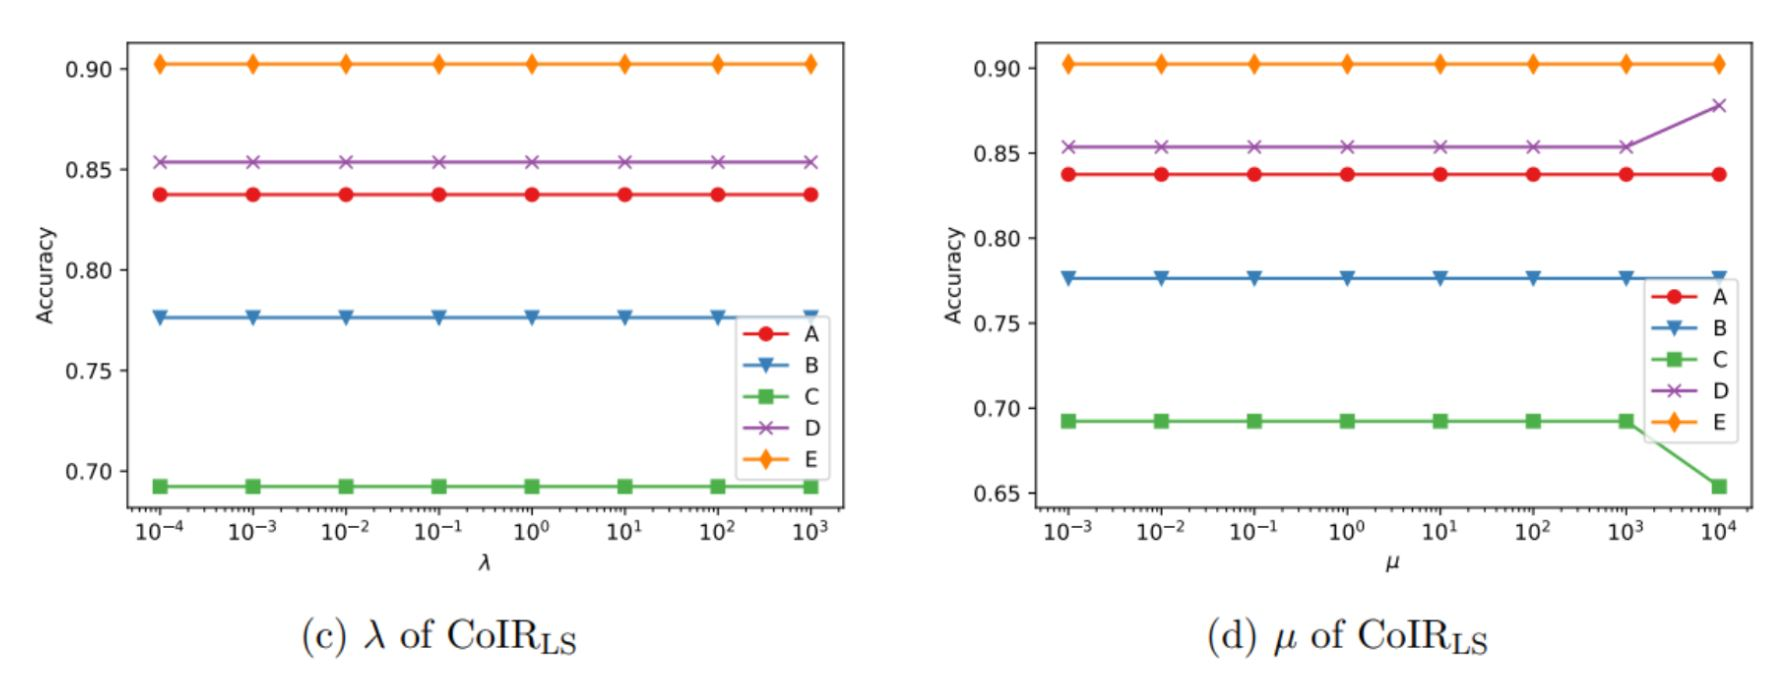
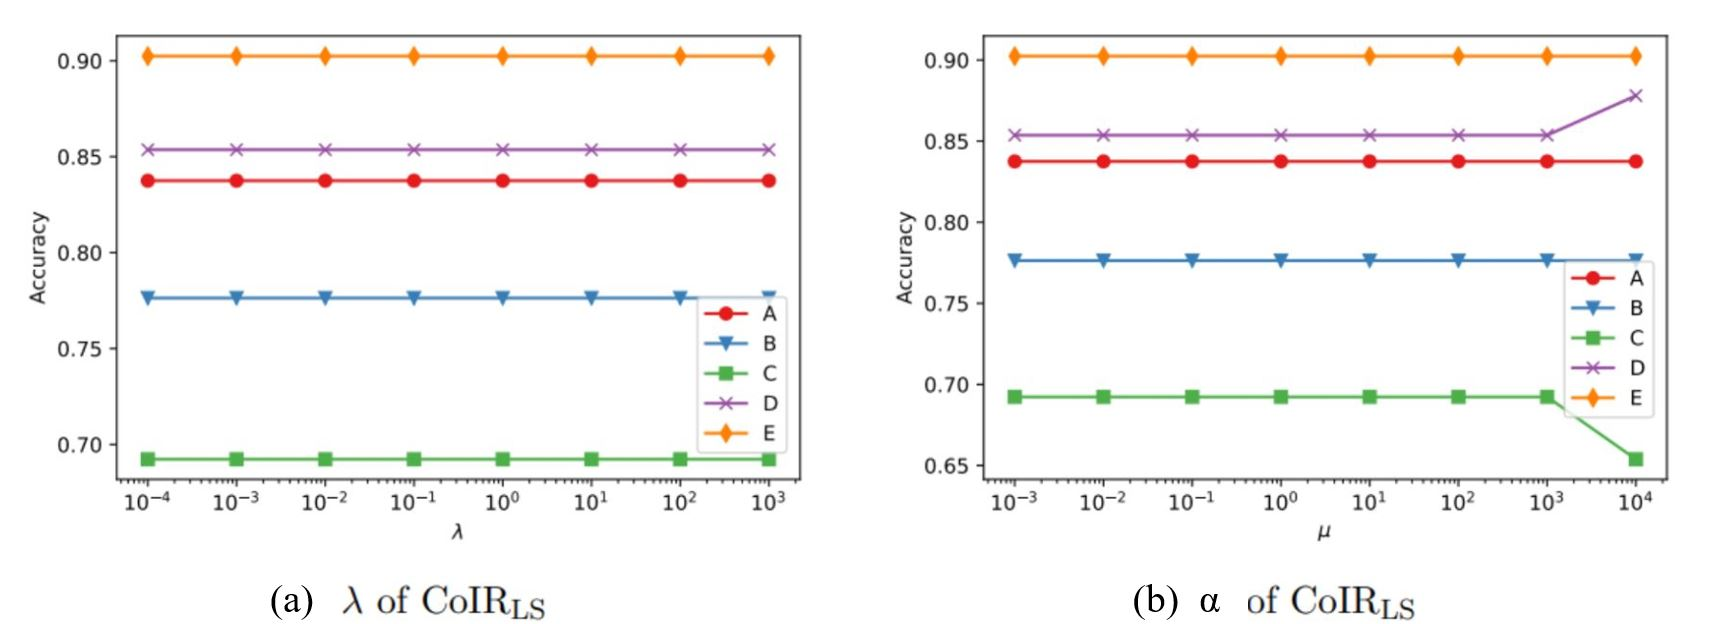
hyper parameter figures and note

diff --git a/_build/html/searchindex.js b/_build/html/searchindex.js
@@ -1,1 +1,1 @@
-Search.setIndex({docnames:["01-da_info/coir_info","01-da_info/coir_ls","01-da_info/limit","01-da_info/tl_dl","01-da_info/traditional_ML","01-da_info/what","01-da_info/when","index"],envversion:{"sphinx.domains.c":2,"sphinx.domains.changeset":1,"sphinx.domains.citation":1,"sphinx.domains.cpp":5,"sphinx.domains.index":1,"sphinx.domains.javascript":2,"sphinx.domains.math":2,"sphinx.domains.python":3,"sphinx.domains.rst":2,"sphinx.domains.std":2,"sphinx.ext.intersphinx":1,"sphinxcontrib.bibtex":9,sphinx:56},filenames:["01-da_info/coir_info.md","01-da_info/coir_ls.md","01-da_info/limit.md","01-da_info/tl_dl.md","01-da_info/traditional_ML.md","01-da_info/what.md","01-da_info/when.md","index.md"],objects:{},objnames:{},objtypes:{},terms:{"0":[],"000":1,"001":2,"002":2,"0s":1,"1":[0,2,3,4],"10":1,"100":[],"19680801":[],"2":3,"2006":4,"2007":4,"2008":4,"2010":3,"2013":4,"2014":4,"2015":4,"2016":4,"2017":[],"2018":4,"2021":3,"3":1,"3a":3,"3b":[],"4":1,"5":[],"\u03bc1":1,"\u03bc2":1,"case":7,"class":4,"default":[4,7],"do":7,"final":4,"function":[1,2,3,4,7],"import":[1,2,4],"new":3,"null":4,"return":1,"while":[2,7],A:[2,3,4,6],As:[],But:[],For:[4,6,7],If:[],In:[5,7],Is:4,It:[],No:4,That:[],The:[0,1,2,3,4,7],There:3,To:[0,7],With:[],abandon:2,abil:4,about:[],accept:[],account:5,accur:7,accuraci:[1,4],achiev:7,acquir:0,across:[2,7],action:4,activ:[0,2,4,5,7],adapt:0,add_:[],addition:[0,2],address:[3,6],after:2,again:7,aggreg:7,aim:7,al:[3,4],alcohol:4,algorithm:[0,1,4],align:7,all:[0,2,3,4,7],allow:[2,3,4,5],alreadi:7,also:[1,2],alter:[4,6],altern:4,alzubi:4,an:[2,4,6,7],analys:[2,4,7],analysi:[2,3,4],analyz:2,anatom:7,ani:[],anim:4,anomali:[],answer:4,appli:7,approach:6,appropri:4,ar:[0,2,3,4,6,7],area:0,arrai:[],artifici:4,ask:4,assess:[2,6],associ:[4,7],assum:7,attempt:[4,7],auditori:[],australia:[],awar:2,ax:[],b:[3,4],base:[1,2,3,4],bayesian:4,becaus:2,been:4,befor:[6,7],begin:7,begun:7,behavior:[4,7],being:4,below:2,benefici:5,benefit:0,between:[3,6,7],bib:[],bibliographi:[],bibtex:[],binari:4,block:[],blue:3,bono:4,book:[],borrow:7,both:[0,2,3],bound:0,boundari:2,box:3,brain:[0,1,2,5,7],brian:[],brisban:[],brute:6,build:[],built:[],bundl:[],c:1,call:[0,7],can:[0,1,2,3,4,5,6,7],categori:4,cell:[],center:1,chair:7,challeng:[5,7],chang:[1,4],check:[],chosen:4,christoph:[],cite:0,classif:[0,1,2,7],classifi:[0,1,3],cluster:[],cm:[],cmap:[],code:[],coeffici:0,cognit:[4,5],coir:[],coirl:[0,1],cold:[],collect:7,color:[],combat:7,combin:[0,5,7],command:[],common:[4,7],commonli:[2,4],commonmark:[],complet:1,complex:[0,7],compon:[3,4],comput:[1,4,5,7],concaten:7,concentr:2,concept:7,conclus:2,condit:[0,4,7],confer:[],consid:[0,2,5],consider:2,construct:1,content:[],contigu:7,continu:4,contribut:[2,3,4,7],control:[1,4],convert:[],coolwarm:[],coordin:7,correct:4,correl:2,correspond:[1,2],cortex:7,cortico:4,could:7,covari:[0,1,5],creat:4,cross:1,current:5,custom_lin:[],cycler:[],d:1,da:[3,6],data:[0,1,2,3,4,7],dataset:[0,3,4,5,7],de:[],decis:[],decod:[1,7],deep:7,defin:[2,4],denot:1,depend:0,depth:[],deriv:3,describ:7,design:0,detail:[],detect:[],determin:[4,6],develop:7,di:4,differ:[3,5,6],differenti:7,difficult:2,dimens:2,dimension:0,direct:[],discrimin:4,displai:[],diss:0,distinct:7,distribut:[0,3,7],divers:3,document:[],doe:[],dollar:[],domain:[0,1,4],done:[4,7],drawn:2,due:4,dure:[2,4],e:[0,1,2,3,4,6],each:[4,5,6,7],ecosystem:[],effect:7,either:3,element:7,elicit:5,emb:[],empir:0,enabl:4,encod:[0,1],end:[],environ:4,equival:3,error:[0,4],escap:[],et:[3,4],etc:[4,6],even:7,everi:2,evid:[],exampl:[4,7],execut:[],exist:6,experi:[0,4,5,7],experienc:4,explain:7,explicit:6,explicitli:4,express:7,extens:[],extract:5,fear:[2,4],featur:[0,1,2,3,4,5,6,7],feel:[],few:[],fig:[1,3,4],figsiz:[],figur:[],file:[],fit:[4,7],five:[1,4],fix:4,flavor:[],fmri:[2,4,7],focu:3,focus:4,follow:[2,4,7],forc:6,form:7,forward:2,found:1,framework:[0,1,5],from:[0,1,2,3,4,7],frontal:7,frontier:[],further:[0,4],furthermor:7,g:[4,6],gain:3,game:4,gener:[0,3,4],get:[],give:[],given:[2,4,7],go:[],goal:7,greater:1,green:3,gui:[],guid:[3,4,5],ha:[2,3,4,7],hand:[0,4],handl:4,haruno:4,have:[0,4,7],hdhpk14:[],healthi:4,heard:4,heer:[],help:[],here:[],holdgraf:[],holdgraf_evidence_2014:[],hot:[0,1],how:[4,7],howev:[5,7],html:[],human:[3,4,7],hurt:6,hypothesi:[0,4],i:[0,1,2,3,4,7],ica:4,ideal:7,ident:[1,2,3,4],identifi:[0,2,7],ii:[],imag:[],imagin:4,impact:[2,4],impli:3,implicit:6,improv:[3,4,7],includ:[1,4,7],increas:7,independ:[1,4,5],indic:1,individu:[2,7],induct:3,influenc:[3,4],inform:3,init:[],initi:7,inlin:[],input:[0,3],insert:[],instruct:[],insula:2,intellig:4,intention:3,interact:[],interest:2,intern:[],interpret:0,introduc:7,invari:0,investig:[],involv:[4,7],ion:[],ipynb:[],iter:4,itself:4,jupyt:[],jupyterbook:[],jupytext:[],just:[],kawato:4,keep:[],kei:7,kernel:1,kind:[],knight:[],knowledg:[3,4],known:7,la_:[],label:[0,1,2,7],languag:5,larg:[4,7],larger:[1,3],last:[],lead:1,learn:[0,1,5,6],least:0,leav:1,legend:[],lend:[],let:[],leverag:3,liang:4,like:[],limit:3,line2d:[],line:[],linear:1,link:2,linspac:[],literatur:7,littl:[],ll:[],lobe:7,local:[2,7],locat:6,logspac:[],loop:4,lot:[],lw:[],machin:[],magic:7,magnet:4,magnitud:0,mai:[2,6,7],major:4,make:4,mani:[4,7],map:[0,1,7],margin:3,markdown:[],markdownfil:[],markedli:[],markup:[],math:4,matplotlib:[],matrix:[0,1],mbox:[],md:[],mean:[1,2],mechan:4,medium:[],memori:7,method:[0,6],methodolog:6,minim:0,misus:4,ml:[3,4],mni:2,modal:[4,7],mode:[4,7],model:[0,1,3,4,5,7],modifi:4,modul:[],modulenotfounderror:[],more:[0,3,4,5,7],moreov:[],most:4,much:4,multi:[1,4],multipl:[4,7],multivari:7,must:[0,2,4,6],mvpa:4,myst:[],n:[],name:[],natur:5,need:[2,6],neg:[0,6],network:[4,7],neural:[4,7],neurocognit:7,neuropsycholog:4,neurosci:4,neuroscientist:[4,7],next:4,nois:[],note:[],notebook:[],np:[],number:[4,7],numer:4,numpi:[],object:0,occur:[0,2,3],odd:4,off:1,often:4,one:[0,1,2,3,4],onli:[3,4,6],openneuro:1,optim:[0,1],order:5,org:[],organ:4,orient:2,origin:[2,4],other:[2,6,7],out:[1,2,4],outlier:4,output:[0,4],over:4,overcom:7,overview:7,page:[],pan:3,pariet:7,part:3,particip:[2,5],particular:5,particularli:4,paslei:[],patch:7,path:[],pattern:[4,5,7],pca:4,penalti:4,percept:4,perform:[1,6],perspect:7,pfordresh:3,plot:[],plt:[],point:[],posit:0,post:[],potenti:7,power:[],precursor:4,predict:[0,3,4],presenc:[],present:[4,5],principl:4,print:[],prior:4,priori:4,probabl:[1,3],problem:[4,7],process:[1,3,4,5,7],produc:4,profil:[4,7],program:4,project:0,promis:7,prop_cycl:[],properli:[],prove:7,provid:3,purpos:4,pyplot:[],question:6,ramsai:[],randn:[],random:[],rang:7,rare:7,rate:4,rather:3,rational:2,rcparam:[],recent:[],reduc:[0,4],refer:[],referenti:7,regardless:7,region:[2,7],regress:[2,7],regular:[0,1,5,7],reinforc:[],relat:[3,4,6,7],relationship:[3,6,7],relev:[2,7],reli:7,remain:2,render:[],repres:3,represent:7,reproduc:[],requir:[1,4,7],research:4,reson:4,respect:[1,7],respons:7,rest:[],result:[2,3,4,6],retain:2,reward:4,risk:0,robert:[],robust:5,run:4,s:[1,2,4,7],same:[0,2,3,4,5,6,7],sampl:[0,3],scan:2,scanner:7,scienc:4,score:[],seafar:4,see:[1,3],seed:[],self:7,sensit:1,seriou:7,serv:[],set:[2,3,7],share:[3,7],shi:4,shoe:7,should:[2,4,6,7],show:[],sign:[],similar:[2,4,6,7],similarli:[2,3],simpl:[],simplest:7,simultan:0,singl:[4,7],site:7,situat:[3,6],skill:6,slight:[],small:[],smolder:4,so:[0,7],solv:4,some:[2,3,4,7],sourc:[0,1,2,6,7],space:[0,2,3,6,7],span:[],spatial:2,special:[],specif:[5,6,7],specifi:3,sphinx:[],squar:0,stabil:1,stand:[],standard:[2,7],start:[],starter:[],state:[],statist:4,step:[1,2],stimuli:[6,7],stimulu:[4,7],store:[],strategi:7,striatal:4,structur:[4,7],studi:[2,3,4,6,7],subject:[0,2,4,5,7],subplot:[],subset:[2,4],subtyp:3,supekar:4,support:7,sure:[],syntax:[],t:[],tabl:3,tandem:7,tap:7,target:[0,1,2,6,7],task:[0,1,3,4,5],techniqu:7,templat:7,tempor:7,term:3,test:4,tex:[],text:[],than:[1,3,7],thei:7,therefor:[0,2,3],thi:[1,2,3,4,5,7],thing:[],think:7,those:[],though:[1,4],thoughtfulli:2,three:[0,3],through:4,thu:7,time:4,tl:[3,4,6],took:7,tool:4,top:0,topic:[],traceback:[],trade:1,tradit:[3,4,5],train:[1,2,3,4,7],transduct:3,transfer:[4,6],treat:5,trial:[4,7],turn:0,tutor:4,two:[3,6],type:6,typic:[2,7],unabl:2,understand:[],unintention:3,uniqu:[0,2,5],unit:7,univari:7,unlabel:[0,1,3],unlik:2,unsuccess:6,unsupervis:3,up:2,upper:0,us:[0,1,2,3,4,5],valid:1,valu:1,varianc:7,variat:[],variou:4,vector:[1,3,7],ventral:7,veri:[4,7],via:4,video:4,view:[0,4],vision:5,visual:0,voxel:[2,4,7],wai:7,want:[],we:7,weight:[0,2],well:5,wendi:[],what:[4,7],whelan:4,when:[3,7],where:[0,7],wherea:[],whether:[],which:[0,2,3,4,5,6,7],white:3,whole:2,why:7,wide:[4,5,7],within:[2,7],without:4,work:7,wors:6,would:7,write:[],written:[],yang:3,ye:4,you:[],your:[],zorzi:4},titles:["About CoIR","CoIR<sub>LS</sub>","Domain Adaptation Limitation","Transfer Learning and Domain Adaptation","Machine Learning","What to Domain Adaptation","When to use Domain Adaptation","Cognitive Neuroscience"],titleterms:{about:0,adapt:[2,3,5,6,7],add:[],an:[],anomali:4,block:[],book:[],cell:[],citat:[],classif:4,cluster:4,code:[],cognit:7,coir:[0,1,5],coirl:[],content:[],creat:[],detect:4,direct:[],domain:[2,3,5,6,7],exampl:[],file:[],hyper:1,input:1,jupyt:[],learn:[3,4,7],limit:2,ls:1,machin:[4,7],markdown:[],metadata:[],more:[],myst:[],neurosci:7,notebook:[],output:[],paramet:1,question:4,quickli:[],regress:4,reinforc:4,role:[],sampl:[],sourc:3,sub:1,target:3,transfer:3,type:3,us:[6,7],welcom:[],what:5,when:6,yaml:[],your:[]}})
+Search.setIndex({docnames:["01-da_info/coir_info","01-da_info/coir_ls","01-da_info/limit","01-da_info/tl_dl","01-da_info/traditional_ML","01-da_info/what","01-da_info/when","index"],envversion:{"sphinx.domains.c":2,"sphinx.domains.changeset":1,"sphinx.domains.citation":1,"sphinx.domains.cpp":5,"sphinx.domains.index":1,"sphinx.domains.javascript":2,"sphinx.domains.math":2,"sphinx.domains.python":3,"sphinx.domains.rst":2,"sphinx.domains.std":2,"sphinx.ext.intersphinx":1,"sphinxcontrib.bibtex":9,sphinx:56},filenames:["01-da_info/coir_info.md","01-da_info/coir_ls.md","01-da_info/limit.md","01-da_info/tl_dl.md","01-da_info/traditional_ML.md","01-da_info/what.md","01-da_info/when.md","index.md"],objects:{},objnames:{},objtypes:{},terms:{"0":[],"000":1,"001":2,"002":2,"0s":1,"1":[0,2,3,4],"10":1,"100":[],"19680801":[],"2":3,"2006":4,"2007":4,"2008":4,"2010":3,"2013":4,"2014":4,"2015":4,"2016":4,"2017":[],"2018":4,"2021":3,"3":1,"3a":[1,3],"3b":1,"4":1,"5":[],"\u03bc1":[],"\u03bc2":[],"case":7,"class":4,"default":[4,7],"do":7,"final":4,"function":[2,3,4,7],"import":[1,2,4],"new":3,"null":4,"return":1,"while":[2,7],A:[2,3,4,6],As:[],But:[],For:[4,6,7],If:[],In:[5,7],Is:4,It:[],No:4,That:[],The:[0,1,2,3,4,7],There:3,To:[0,7],With:[],abandon:2,abil:4,about:[],accept:[],account:5,accur:7,accuraci:[1,4],achiev:7,acquir:0,across:[2,7],action:4,activ:[0,2,4,5,7],adapt:0,add_:[],addition:[0,2],address:[3,6],after:2,again:7,aggreg:7,aim:7,al:[3,4],alcohol:4,algorithm:[0,1,4],align:7,all:[0,2,3,4,7],allow:[2,3,4,5],alpha:1,alreadi:7,also:[1,2],alter:[4,6],altern:4,alzubi:4,an:[2,4,6,7],analys:[2,4,7],analysi:[2,3,4],analyz:2,anatom:7,ani:[],anim:4,anomali:[],answer:4,appli:7,approach:6,appropri:4,ar:[0,2,3,4,6,7],area:0,arrai:[],artifici:4,ask:4,assess:[2,6],associ:[4,7],assum:7,attempt:[4,7],auditori:[],australia:[],awar:2,ax:[],b:[3,4],base:[1,2,3,4],bayesian:4,becaus:2,been:4,befor:[6,7],begin:7,begun:7,behavior:[4,7],being:4,below:2,benefici:5,benefit:0,between:[3,6,7],bib:[],bibliographi:[],bibtex:[],binari:4,block:[],blue:3,bono:4,book:[],borrow:7,both:[0,2,3],bound:0,boundari:2,box:3,brain:[0,1,2,5,7],brian:[],brisban:[],brute:6,build:[],built:[],bundl:[],c:[],call:[0,7],can:[0,1,2,3,4,5,6,7],categori:4,cell:[],center:1,chair:7,challeng:[5,7],chang:[1,4],check:[],chosen:4,christoph:[],cite:0,classif:[0,1,2,7],classifi:[0,1,3],cluster:[],cm:[],cmap:[],code:[],coeffici:0,cognit:[4,5],coir:[],coirl:[0,1],cold:[],collect:7,color:[],combat:7,combin:[0,5,7],command:[],common:[4,7],commonli:[2,4],commonmark:[],complet:1,complex:[0,7],compon:[3,4],comput:[1,4,5,7],concaten:7,concentr:2,concept:7,conclus:2,condit:[0,4,7],confer:[],consid:[0,2,5],consider:2,construct:1,content:[],contigu:7,continu:4,contribut:[2,3,4,7],control:[1,4],convert:[],coolwarm:[],coordin:7,correct:4,correl:2,correspond:2,cortex:7,cortico:4,could:7,covari:[0,1,5],creat:4,cross:1,current:5,custom_lin:[],cycler:[],d:[],da:[3,6],data:[0,1,2,3,4,7],dataset:[0,3,4,5,7],de:[],decis:[],decod:[1,7],deep:7,defin:[2,4],denot:1,depend:0,depth:[],deriv:3,describ:7,design:0,detail:[],detect:[],determin:[4,6],develop:7,di:4,differ:[3,5,6],differenti:7,difficult:2,dimens:2,dimension:0,direct:[],discrimin:4,displai:[],diss:0,distinct:7,distribut:[0,3,7],divers:3,document:[],doe:[],dollar:[],domain:[0,1,4],done:[4,7],drawn:2,due:4,dure:[2,4],e:[0,1,2,3,4,6],each:[4,5,6,7],ecosystem:[],effect:7,either:3,element:7,elicit:5,emb:[],empir:0,enabl:4,encod:[0,1],end:[],environ:4,equival:3,error:[0,4],escap:[],et:[3,4],etc:[4,6],even:7,everi:2,evid:[],exampl:[4,7],execut:[],exist:6,experi:[0,4,5,7],experienc:4,explain:7,explicit:6,explicitli:4,express:7,extens:[],extract:5,fear:[2,4],featur:[0,1,2,3,4,5,6,7],feel:[],few:[],fig:[1,3,4],figsiz:[],figur:[],file:[],fit:[4,7],five:[1,4],fix:4,flavor:[],fmri:[2,4,7],focu:3,focus:4,follow:[2,4,7],forc:6,form:7,forward:2,found:1,framework:[0,1,5],from:[0,1,2,3,4,7],frontal:7,frontier:[],further:[0,4],furthermor:7,g:[4,6],gain:3,game:4,gener:[0,3,4],get:[],give:[],given:[2,4,7],go:[],goal:7,greater:1,green:3,gui:[],guid:[3,4,5],ha:[2,3,4,7],hand:[0,4],handl:4,haruno:4,have:[0,4,7],hdhpk14:[],healthi:4,heard:4,heer:[],help:[],here:[],holdgraf:[],holdgraf_evidence_2014:[],hot:[0,1],how:[4,7],howev:[5,7],html:[],human:[3,4,7],hurt:6,hypothesi:[0,4],i:[0,1,2,3,4,7],ica:4,ideal:7,ident:[1,2,3,4],identifi:[0,2,7],ii:[],imag:[],imagin:4,impact:[2,4],impli:3,implicit:6,improv:[3,4,7],includ:[1,4,7],increas:7,independ:[1,4,5],indic:1,individu:[2,7],induct:3,influenc:[3,4],inform:3,init:[],initi:7,inlin:[],input:[0,3],insert:[],instruct:[],insula:2,intellig:4,intention:3,interact:[],interest:2,intern:[],interpret:0,introduc:7,invari:0,investig:[],involv:[4,7],ion:[],ipynb:[],iter:4,itself:4,jupyt:[],jupyterbook:[],jupytext:[],just:[],kawato:4,keep:[],kei:7,kernel:1,kind:[],knight:[],knowledg:[3,4],known:7,la_:[],label:[0,1,2,7],lambda:1,languag:5,larg:[4,7],larger:[1,3],last:[],lead:1,learn:[0,1,5,6],least:0,leav:1,legend:[],lend:[],let:[],leverag:3,liang:4,like:[],limit:3,line2d:[],line:[],linear:1,link:2,linspac:[],literatur:7,littl:[],ll:[],lobe:7,local:[2,7],locat:6,logspac:[],loop:4,lot:[],lw:[],machin:[],magic:7,magnet:4,magnitud:0,mai:[2,6,7],major:4,make:4,mani:[4,7],map:[0,1,7],margin:3,markdown:[],markdownfil:[],markedli:[],markup:[],math:4,matplotlib:[],matrix:[0,1],mbox:[],md:[],mean:2,mechan:4,medium:[],memori:7,method:[0,6],methodolog:6,minim:0,misus:4,ml:[3,4],mni:2,modal:[4,7],mode:[4,7],model:[0,1,3,4,5,7],modifi:4,modul:[],modulenotfounderror:[],more:[0,3,4,5,7],moreov:[],most:4,much:4,multi:[1,4],multipl:[4,7],multivari:7,must:[0,2,4,6],mvpa:4,myst:[],n:[],name:[],natur:5,need:[2,6],neg:[0,6],network:[4,7],neural:[4,7],neurocognit:7,neuropsycholog:4,neurosci:4,neuroscientist:[4,7],next:4,nois:[],note:[],notebook:[],np:[],number:[4,7],numer:4,numpi:[],object:0,occur:[0,2,3],odd:4,off:1,often:4,one:[0,1,2,3,4],onli:[3,4,6],openneuro:1,optim:[0,1],order:5,org:[],organ:4,orient:2,origin:[2,4],other:[2,6,7],out:[1,2,4],outlier:4,output:[0,4],over:4,overcom:7,overview:7,page:[],pan:3,pariet:7,part:3,particip:[2,5],particular:5,particularli:4,paslei:[],patch:7,path:[],pattern:[4,5,7],pca:4,penalti:4,percept:4,perform:[1,6],perspect:7,pfordresh:3,plot:[],plt:[],point:[],posit:0,post:[],potenti:7,power:[],precursor:4,predict:[0,3,4],presenc:[],present:[4,5],principl:4,print:[],prior:4,priori:4,probabl:[1,3],problem:[4,7],process:[1,3,4,5,7],produc:4,profil:[4,7],program:4,project:0,promis:7,prop_cycl:[],properli:[],prove:7,provid:3,purpos:4,pyplot:[],question:6,ramsai:[],randn:[],random:[],rang:7,rare:7,rate:4,rather:3,rational:2,rcparam:[],recent:[],reduc:[0,4],refer:[],referenti:7,regardless:7,region:[2,7],regress:[2,7],regular:[0,1,5,7],reinforc:[],relat:[3,4,6,7],relationship:[3,6,7],relev:[2,7],reli:7,remain:2,render:[],repres:3,represent:7,reproduc:[],requir:[1,4,7],research:4,reson:4,respect:[1,7],respons:7,rest:[],result:[2,3,4,6],retain:2,reward:4,risk:0,robert:[],robust:5,run:4,s:[1,2,4,7],same:[0,2,3,4,5,6,7],sampl:[0,3],scan:2,scanner:7,scienc:4,score:[],seafar:4,see:[1,3],seed:[],self:7,sensit:1,seriou:7,serv:[],set:[2,3,7],share:[3,7],shi:4,shoe:7,should:[2,4,6,7],show:[],sign:[],similar:[2,4,6,7],similarli:[2,3],simpl:[],simplest:7,simultan:0,singl:[4,7],site:7,situat:[3,6],skill:6,slight:[],small:[],smolder:4,so:[0,7],solv:4,some:[2,3,4,7],sourc:[0,1,2,6,7],space:[0,2,3,6,7],span:[],spatial:2,special:[],specif:[5,6,7],specifi:3,sphinx:[],squar:0,stabil:1,stand:[],standard:[2,7],start:[],starter:[],state:[],statist:4,step:[1,2],stimuli:[6,7],stimulu:[4,7],store:[],strategi:7,striatal:4,structur:[4,7],studi:[2,3,4,6,7],subject:[0,2,4,5,7],subplot:[],subset:[2,4],subtyp:3,supekar:4,support:7,sure:[],syntax:[],t:[],tabl:3,tandem:7,tap:7,target:[0,1,2,6,7],task:[0,1,3,4,5],techniqu:7,templat:7,tempor:7,term:3,test:4,tex:[],text:[],than:[1,3,7],thei:7,therefor:[0,2,3],thi:[1,2,3,4,5,7],thing:[],think:7,those:[],though:[1,4],thoughtfulli:2,three:[0,3],through:4,thu:7,time:4,tl:[3,4,6],took:7,tool:4,top:0,topic:[],traceback:[],trade:1,tradit:[3,4,5],train:[1,2,3,4,7],transduct:3,transfer:[4,6],treat:5,trial:[4,7],turn:0,tutor:4,two:[3,6],type:6,typic:[2,7],unabl:2,understand:[],unintention:3,uniqu:[0,2,5],unit:7,univari:7,unlabel:[0,1,3],unlik:2,unsuccess:6,unsupervis:3,up:2,upper:0,us:[0,1,2,3,4,5],valid:1,valu:1,varianc:7,variat:[],variou:4,vector:[1,3,7],ventral:7,veri:[4,7],via:4,video:4,view:[0,4],vision:5,visual:0,voxel:[2,4,7],wai:7,want:[],we:7,weight:[0,2],well:5,wendi:[],what:[4,7],whelan:4,when:[3,7],where:[0,7],wherea:[],whether:[],which:[0,2,3,4,5,6,7],white:3,whole:2,why:7,wide:[4,5,7],within:[2,7],without:4,work:7,wors:6,would:7,write:[],written:[],yang:3,ye:4,you:[],your:[],zorzi:4},titles:["About CoIR","CoIR<sub>LS</sub>","Domain Adaptation Limitation","Transfer Learning and Domain Adaptation","Machine Learning","What to Domain Adaptation","When to use Domain Adaptation","Cognitive Neuroscience"],titleterms:{about:0,adapt:[2,3,5,6,7],add:[],an:[],anomali:4,block:[],book:[],cell:[],citat:[],classif:4,cluster:4,code:[],cognit:7,coir:[0,1,5],coirl:[],content:[],creat:[],detect:4,direct:[],domain:[2,3,5,6,7],exampl:[],file:[],hyper:1,input:1,jupyt:[],learn:[3,4,7],limit:2,ls:1,machin:[4,7],markdown:[],metadata:[],more:[],myst:[],neurosci:7,notebook:[],output:[],paramet:1,question:4,quickli:[],regress:4,reinforc:4,role:[],sampl:[],sourc:3,sub:1,target:3,transfer:3,type:3,us:[6,7],welcom:[],what:5,when:6,yaml:[],your:[]}})

diff --git a/_build/html/01-da_info/coir_ls.html b/_build/html/01-da_info/coir_ls.html
@@ -50,6 +50,8 @@ const thebe_selector_input = "pre"
 const thebe_selector_output = ".output, .cell_output"
 </script>
     <script async="async" src="../_static/sphinx-thebe.js"></script>
+    <script>window.MathJax = {"options": {"processHtmlClass": "tex2jax_process|mathjax_process|math|output_area"}}</script>
+    <script defer="defer" src="https://cdn.jsdelivr.net/npm/mathjax@3/es5/tex-mml-chtml.js"></script>
     <link rel="index" title="Index" href="../genindex.html" />
     <link rel="search" title="Search" href="../search.html" />
     <link rel="prev" title="About CoIR" href="coir_info.html" />
@@ -403,11 +405,11 @@ title="Print to PDF"
 <h2>Hyper-Parameters<a class="headerlink" href="#hyper-parameters" title="Permalink to this headline">#</a></h2>
 <p>Hyper-parameters (i.e., values that control the model’s learning process) include:</p>
 <ul class="simple">
-<li><p>mean (i.e., μ1 and μ2)</p></li>
-<li><p>kernel function and corresponding hyper-parameters.</p></li>
+<li><p>lambda  (<span class="math notranslate nohighlight">\(\lambda\)</span>)</p></li>
+<li><p>alpha (<span class="math notranslate nohighlight">\(\alpha\)</span>)</p></li>
 </ul>
 <p>Optimal hyper-parameters can be found using leave-one-domain-out cross validation on source domain data.</p>
-<p>The algorithm is not sensitive to the trade-off parameter, indicating the covariate-independence regularization importance stability (see Fig. 4 c). This algorithm is also not sensitive to the mean, though larger values greater than 10,000 can lead to a change in performance (see Fig. 4 d).</p>
+<p>The algorithm is not sensitive to the trade-off parameter, indicating the covariate-independence regularization importance stability (see Fig. 3a). This algorithm is also not sensitive to alpha, though larger values greater than 10,000 can lead to a change in performance (see Fig. 3b).</p>
 <p><img alt="Hyperparameters" src="../_images/CoIRsens.JPG" /></p>
 <p><b>Fig. 3 - Sensitivity of classification accuracy with respect to hyper-parameters of CoIRLS on five multi-source brain decoding tasks from OpenNeuro </b></p>
 </section>

diff --git a/01-da_info/coir_ls.md b/01-da_info/coir_ls.md
@@ -14,12 +14,12 @@ Inputs required include:
 
 ## Hyper-Parameters
 Hyper-parameters (i.e., values that control the model’s learning process) include: 
-- mean (i.e., μ1 and μ2)
-- kernel function and corresponding hyper-parameters. 
+- lambda  ($\lambda$)
+- alpha ($\alpha$)
 
 Optimal hyper-parameters can be found using leave-one-domain-out cross validation on source domain data. 
 
-The algorithm is not sensitive to the trade-off parameter, indicating the covariate-independence regularization importance stability (see Fig. 4 c). This algorithm is also not sensitive to the mean, though larger values greater than 10,000 can lead to a change in performance (see Fig. 4 d). 
+The algorithm is not sensitive to the trade-off parameter, indicating the covariate-independence regularization importance stability (see Fig. 3a). This algorithm is also not sensitive to alpha, though larger values greater than 10,000 can lead to a change in performance (see Fig. 3b). 
 
 ![Hyperparameters](images/CoIRsens.JPG)
 

diff --git a/_build/html/_sources/01-da_info/coir_ls.md b/_build/html/_sources/01-da_info/coir_ls.md
@@ -14,12 +14,12 @@ Inputs required include:
 
 ## Hyper-Parameters
 Hyper-parameters (i.e., values that control the model’s learning process) include: 
-- mean (i.e., μ1 and μ2)
-- kernel function and corresponding hyper-parameters. 
+- lambda  ($\lambda$)
+- alpha ($\alpha$)
 
 Optimal hyper-parameters can be found using leave-one-domain-out cross validation on source domain data. 
 
-The algorithm is not sensitive to the trade-off parameter, indicating the covariate-independence regularization importance stability (see Fig. 4 c). This algorithm is also not sensitive to the mean, though larger values greater than 10,000 can lead to a change in performance (see Fig. 4 d). 
+The algorithm is not sensitive to the trade-off parameter, indicating the covariate-independence regularization importance stability (see Fig. 3a). This algorithm is also not sensitive to alpha, though larger values greater than 10,000 can lead to a change in performance (see Fig. 3b). 
 
 ![Hyperparameters](images/CoIRsens.JPG)
 
